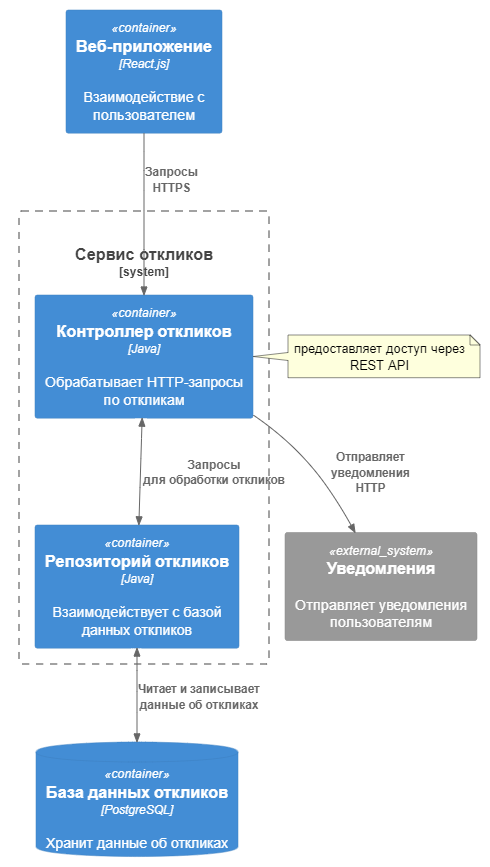
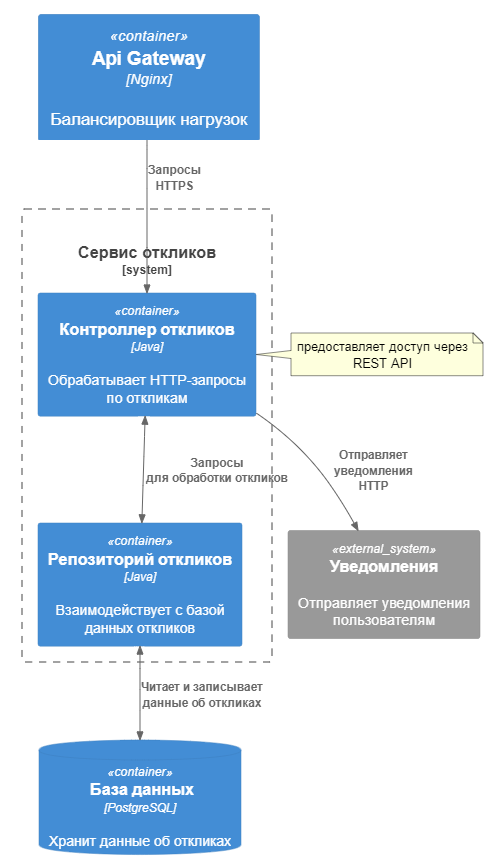
4С изм.

diff --git a/Lab Work №2/docs/4c_diagramm.md b/Lab Work №2/docs/4c_diagramm.md
@@ -2,6 +2,8 @@
 ![alt text](pictures/System.png)
 
 ## Диаграмма контейнеров (архитектура)
+Была выбрана **архитектура микросервисов** с использованием контейнеров, которая предполагает независимое развертывание компонентов системы, более высокую устойчивость к сбоям (при падениее 1 микросервиса остальная часть система продолжает работать), а также выбранная архитектура упрощяет внедрение новых функций и улучшений.
+
 ![alt text](pictures/Containers.png)
 
 ## Диаграмма компонентов (сервис откликов)
